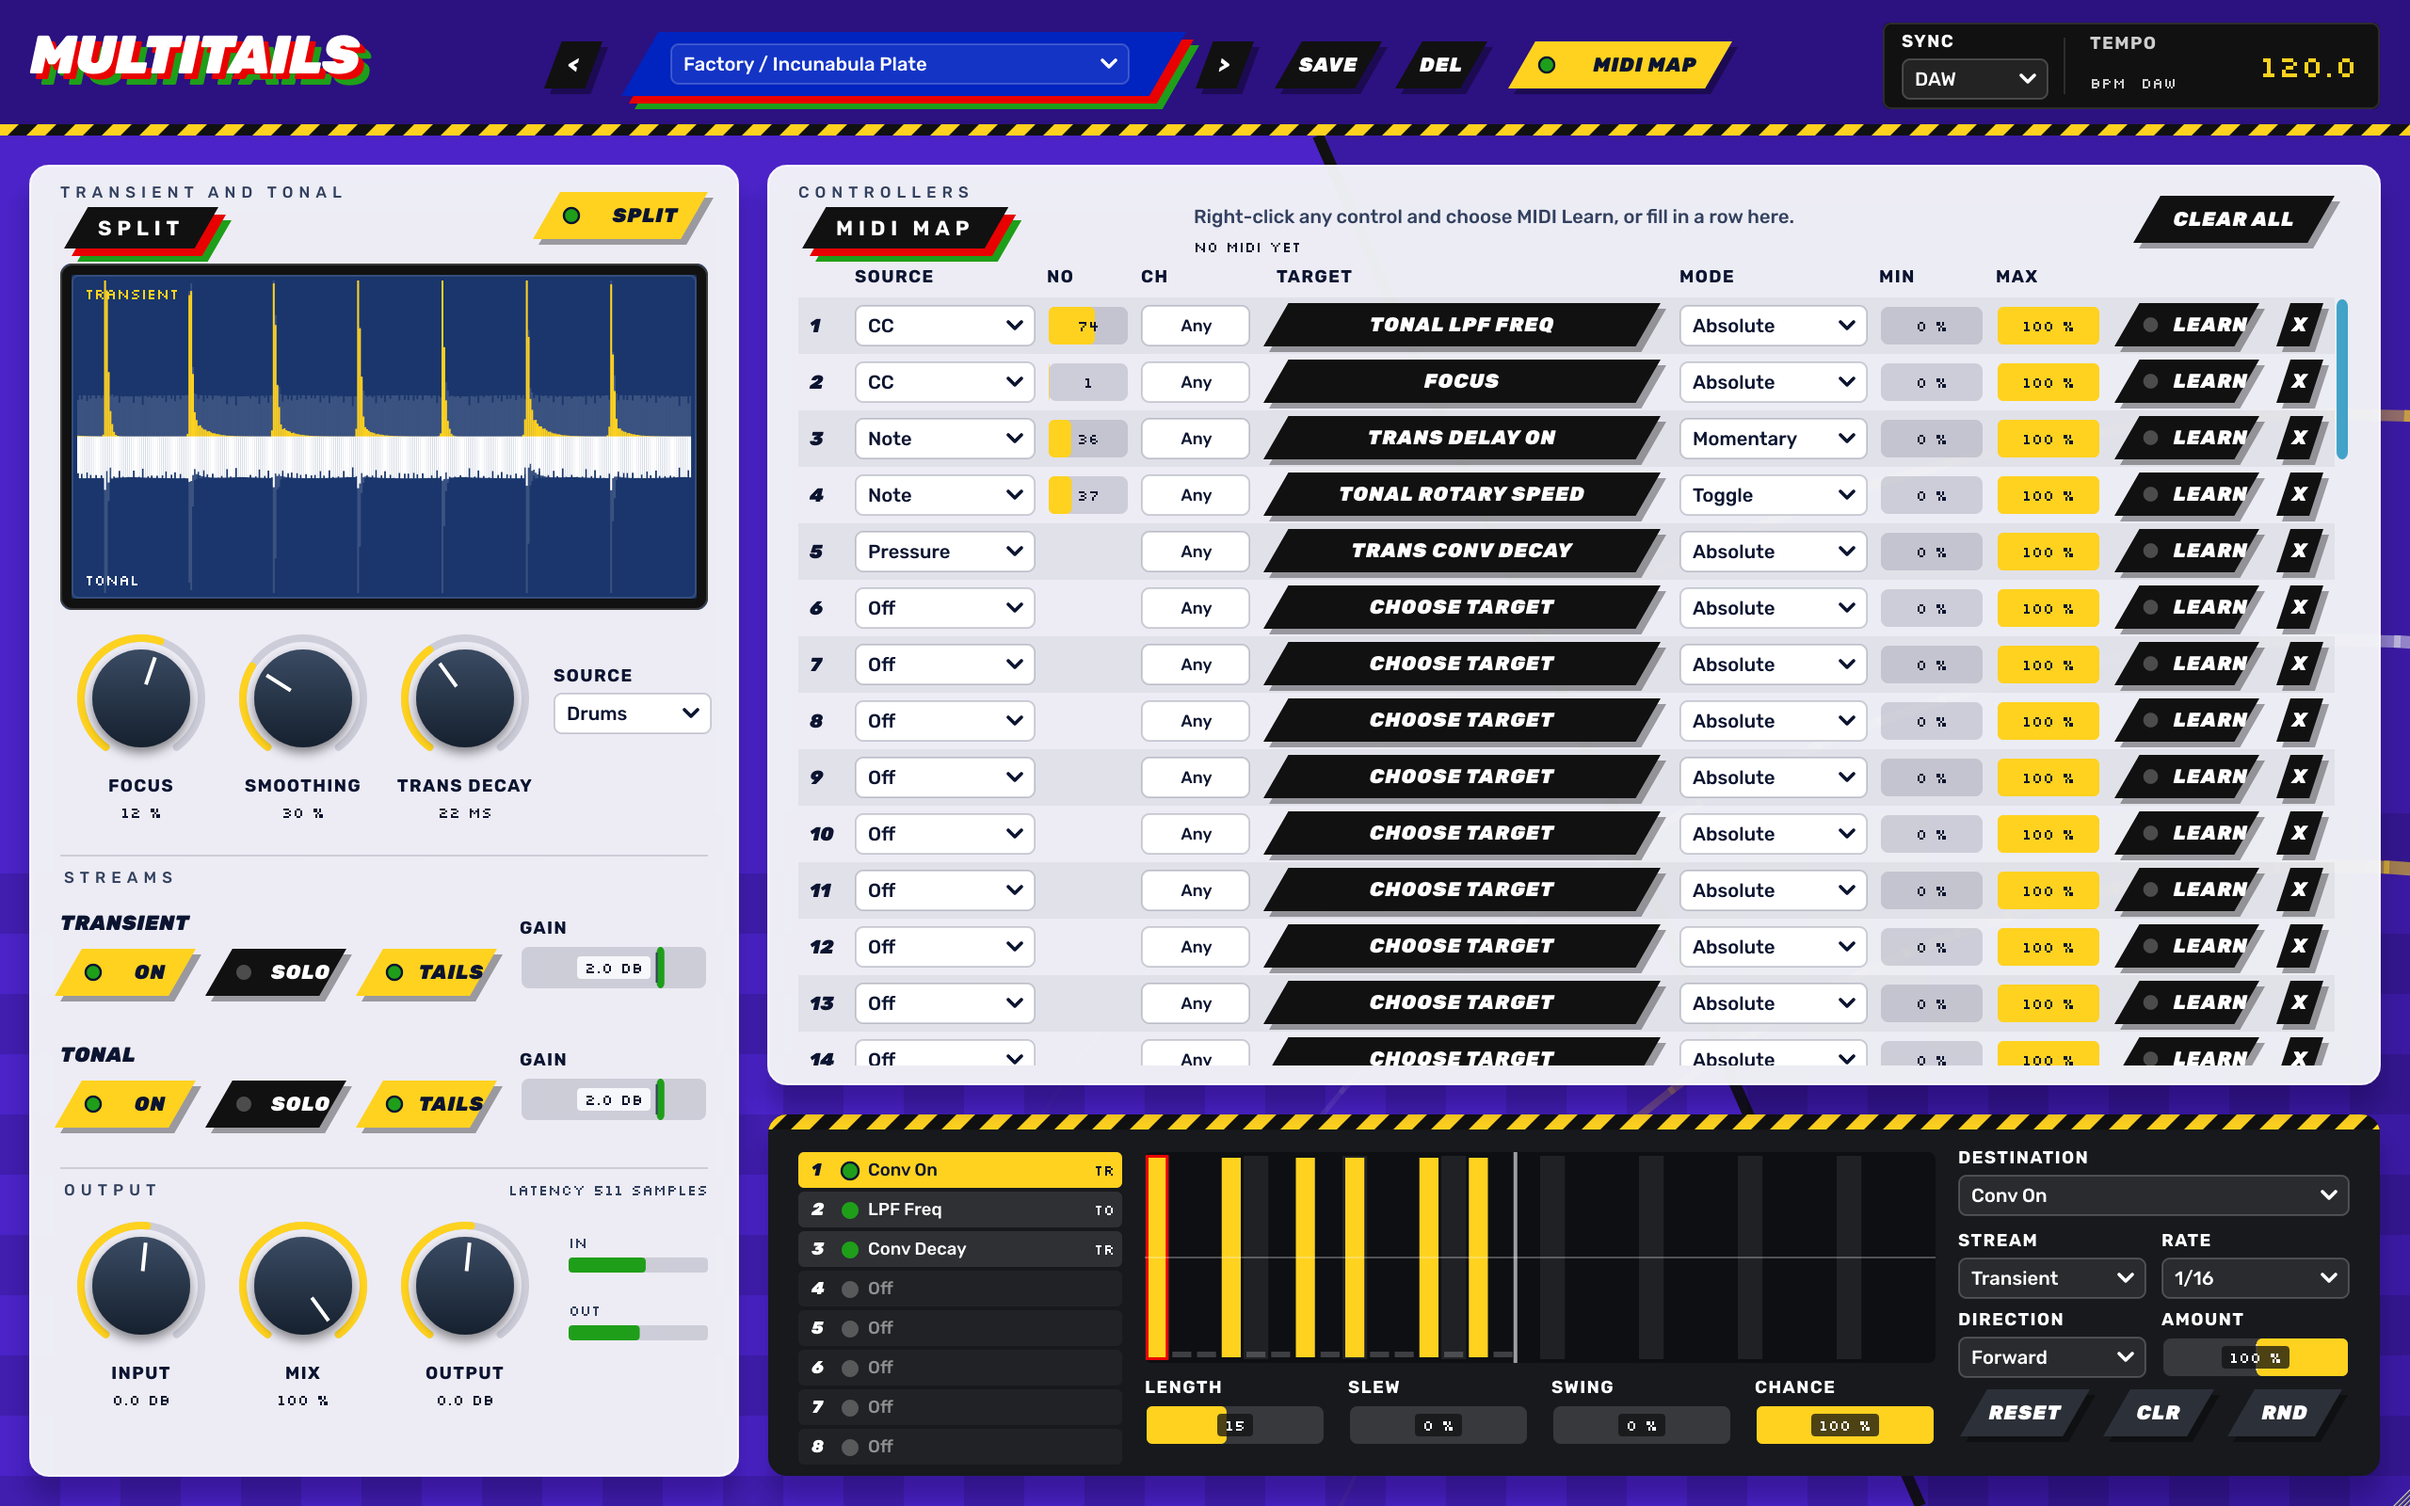
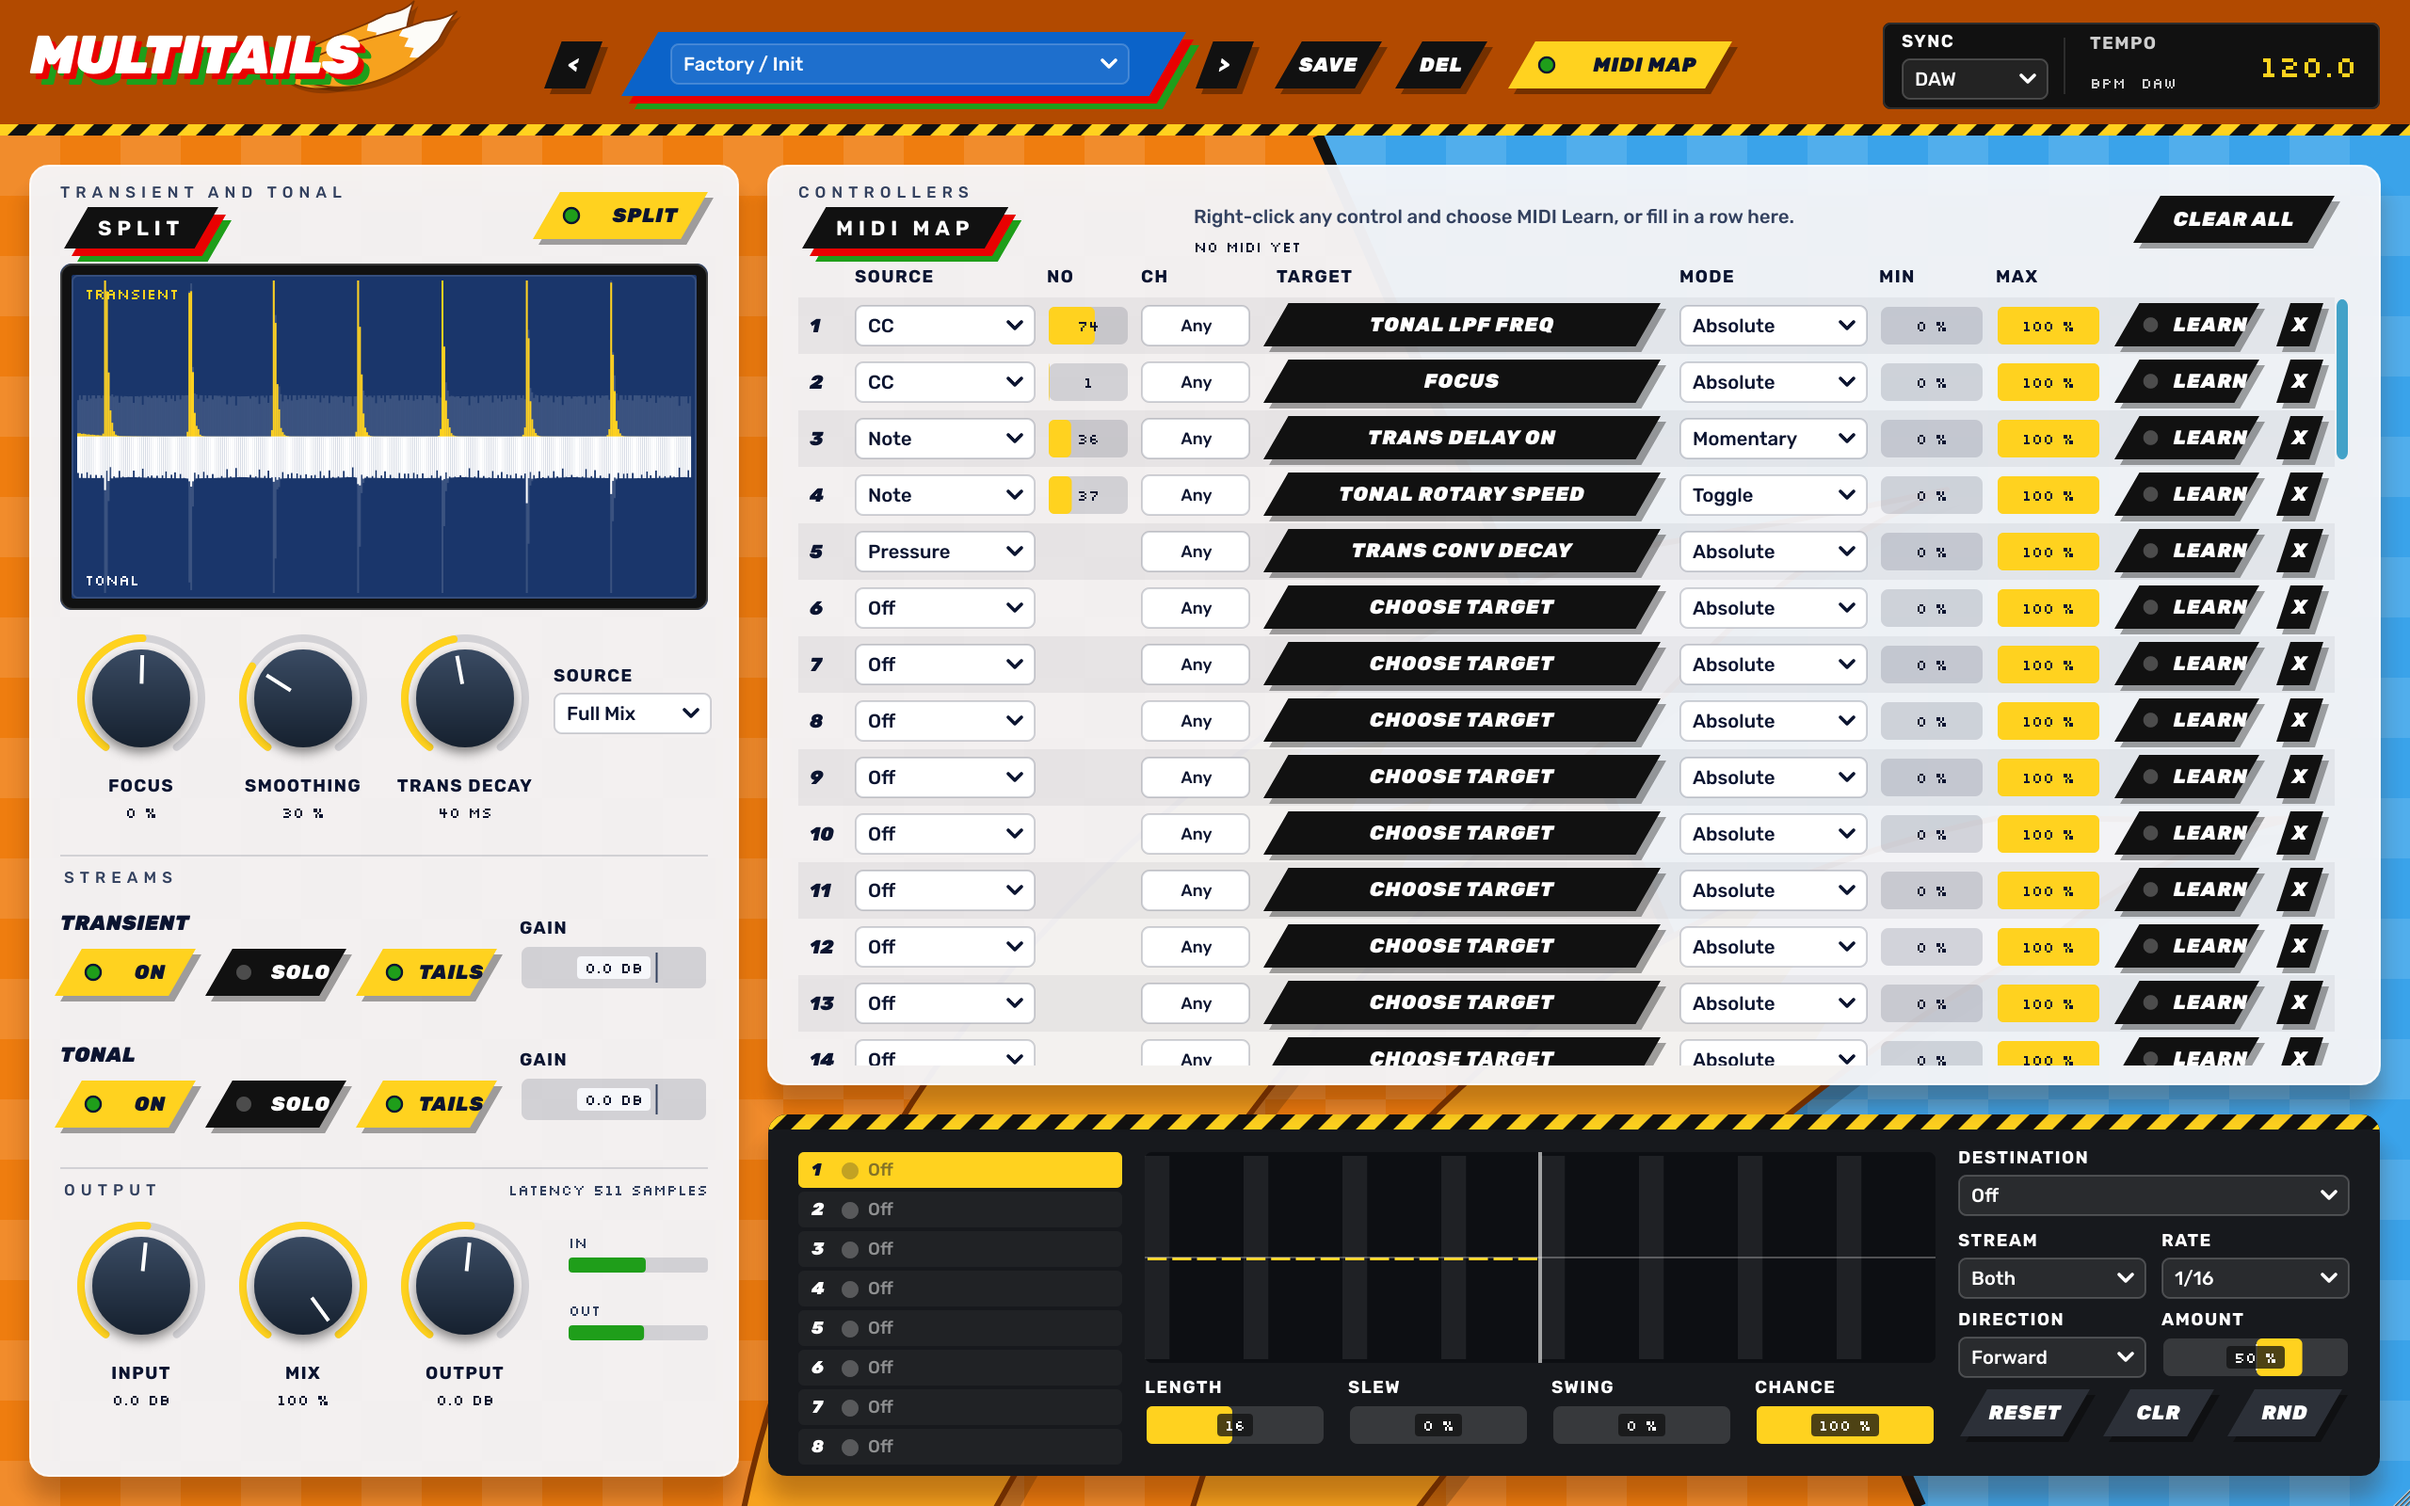
Interfaccia: redesign arancione e azzurro con due code
Claude-Session: https://claude.ai/code/session_01SwQZcES1ck7GBRpW2F6VKn

Changed region(s): [[0.0, 0.0, 1.0, 1.0], [0.8125, 0.8438, 0.8438, 0.875], [0.8125, 0.7812, 0.8438, 0.8125]]

diff --git a/Source/TailsUI.h b/Source/TailsUI.h
@@ -1,6 +1,7 @@
 #pragma once
 // MULTITAILS UI parts. Same design language as SONIC GRAIN and DR. SEGG-UENCER (glass panels, slanted black plates, dark
-// knobs with a yellow value arc, pixel-font readouts). The ground is violet, the third colour of the family.
+// knobs with a yellow value arc, pixel-font readouts). The ground is fox orange with a sky-blue slab and two white-tipped
+// tails behind the panels: the third colour of the family.
 #include <juce_gui_basics/juce_gui_basics.h>
 #include <juce_audio_formats/juce_audio_formats.h>
 #include <map>
@@ -12,13 +13,16 @@ namespace tails
 {
 namespace c
 {
-    // only the ground layer differs from the two sibling plugins, every other name keeps its value
-    const juce::Colour ground    { 0xff4b23c8 };   // violet, white on it 7.7:1
-    const juce::Colour groundAlt { 0xff2c1180 };   // header strip
-    const juce::Colour slab      { 0xff3b1aa3 };   // diagonal band behind the right side
+    // only the ground layer, its shadows and the preset tag differ from the two sibling plugins
+    const juce::Colour ground    { 0xffef7d0f };   // fox orange
+    const juce::Colour groundAlt { 0xffb24a00 };   // header strip, white on it 5.3:1
+    const juce::Colour slab      { 0xff3aa3ea };   // sky-blue diagonal band behind the right side
+    const juce::Colour fur       { 0xfff7a21e };   // tail body, a shade lighter than the ground
+    const juce::Colour furTip    { 0xfffdfcf8 };   // white tail tip
+    const juce::Colour furLine   { 0xff7a3300 };   // tail outline
     const juce::Colour modGround { 0xff17191d };   // track deck
     const juce::Colour glass     { 0xf5f6f7fa };   // rgba(246, 247, 250, 0.96): almost opaque, no cast from the ground
-    const juce::Colour panelShadow { 0x52120040 };
+    const juce::Colour panelShadow { 0x524a1c00 };
     const juce::Colour glassEdge { 0xe6ffffff };
     const juce::Colour ink       { 0xff0b1430 };
     const juce::Colour inkSoft   { 0xff33415f };
@@ -28,16 +32,14 @@ namespace c
     const juce::Colour onAccent  { 0xff0b1430 };
     const juce::Colour go        { 0xff1f9e1a };
     const juce::Colour signal    { 0xffe90101 };
-    const juce::Colour tag       { 0xff0123c0 };
-    const juce::Colour orbitA    { 0xffffd21f };   // yellow tail
-    const juce::Colour orbitB    { 0xffe8ecf1 };   // chrome tail
-    const juce::Colour knob      { 0xff16212f };
+    const juce::Colour tag       { 0xff0b63c9 };   // eye blue, white on it 5.6:1
+        const juce::Colour knob      { 0xff16212f };
     const juce::Colour knobHi    { 0xff3a4b63 };
     const juce::Colour track     { 0x240b1430 };   // ink at 14 %
     const juce::Colour trackDark { 0x24ffffff };   // white at 14 %, for controls on plates and the deck
     const juce::Colour display   { 0xeb082660 };   // rgba(8, 38, 96, 0.92)
     const juce::Colour wave      { 0xffffffff };
-    const juce::Colour checker   { 0x21000000 };   // black 13 % on the ground
+    const juce::Colour checker   { 0x1fffffff };   // white 12 % on the ground and the slab
     const juce::Colour grid      { 0x2effffff };
 }
 
@@ -100,6 +102,58 @@ inline void hazard (juce::Graphics& g, juce::Rectangle<float> r, float band = 10
         p.addQuadrilateral (x, r.getBottom(), x + band, r.getBottom(), x + band + h, r.getY(), x + h, r.getY());
         g.fillPath (p);
     }
+}
+
+/** One fox tail along an arc around (cx, cy): thin at the root, full in the middle, a white tip with a jagged edge.
+    a0 is the root angle and a1 the tip angle (radians, JUCE convention: 0 at 12 o'clock, clockwise). */
+inline void foxTail (juce::Graphics& g, float cx, float cy, float rad, float a0, float a1, float maxW)
+{
+    const float k = juce::jlimit (0.3f, 1.0f, maxW / 130.0f);   // shadow and outline follow the size
+    auto at = [&] (float t, float off)
+    {
+        const float a = a0 + (a1 - a0) * t, r = rad + off;
+        return juce::Point<float> (cx + r * std::sin (a), cy - r * std::cos (a));
+    };
+    auto width = [&] (float t)
+    {
+        const float b = std::sin (juce::MathConstants<float>::pi * std::pow (t, 0.75f));
+        return maxW * (0.22f + 0.78f * b) * (t > 0.82f ? juce::jmax (0.0f, (1.0f - t) / 0.18f) : 1.0f);
+    };
+    auto side = [&] (float from, float to, int n, juce::Path& p, bool outer, bool start)
+    {
+        for (int i = 0; i <= n; ++i)
+        {
+            const float t = outer ? from + (to - from) * (float) i / (float) n : to - (to - from) * (float) i / (float) n;
+            const auto pt = at (t, (outer ? 0.5f : -0.5f) * width (t));
+            if (start && i == 0) p.startNewSubPath (pt); else p.lineTo (pt);
+        }
+    };
+    juce::Path body;
+    side (0.0f, 1.0f, 60, body, true, true);
+    side (0.0f, 1.0f, 60, body, false, false);
+    body.closeSubPath();
+
+    // tip: from a zigzag across the tail at t ~ 0.68 to the point
+    const float tz = 0.68f;
+    juce::Path tip;
+    side (tz, 1.0f, 30, tip, true, true);
+    side (tz, 1.0f, 30, tip, false, false);
+    for (int k = 0; k <= 6; ++k)
+    {
+        const float u = (float) k / 6.0f;
+        const float t = tz + ((k % 2) ? -0.045f : 0.0f);
+        tip.lineTo (at (t, (u - 0.5f) * width (t)));
+    }
+    tip.closeSubPath();
+
+    g.setColour (juce::Colour (0x33000000));
+    g.fillPath (body, juce::AffineTransform::translation (8.0f * k, 8.0f * k));
+    g.setColour (c::fur);
+    g.fillPath (body);
+    g.setColour (c::furTip);
+    g.fillPath (tip);
+    g.setColour (c::furLine);
+    g.strokePath (body, juce::PathStrokeType (3.0f * k, juce::PathStrokeType::curved, juce::PathStrokeType::rounded));
 }
 
 /** Glass panel with its two-line title: kicker word, then the section word on a tagged plate. */

diff --git a/Source/TailsEditor.h b/Source/TailsEditor.h
@@ -135,35 +135,27 @@ public:
     {
         using namespace tails;
         const float W = (float) getWidth(), H = (float) getHeight();
+        // ground: fox orange, a sky-blue slab with a plate edge, a light checkerboard over both, two white-tipped tails
         g.fillAll (c::ground);
         juce::Path band;
         band.addQuadrilateral (700, kHeaderH, W, kHeaderH, W, H, 1020, H);
         g.setColour (c::slab);
         g.fillPath (band);
+        g.setColour (c::checker);
+        for (int y = kHeaderH; y < getHeight(); y += 32)
+            for (int x = (((y - kHeaderH) / 32) % 2) * 32; x < getWidth(); x += 64)
+                g.fillRect (x, y, 32, 32);
         g.setColour (c::plate);
         g.drawLine (700, kHeaderH, 1020, H, 6.0f);
-        g.setColour (c::checker);
-        for (int y = 432; y < getHeight(); y += 32)
-            for (int x = ((y / 32) % 2) * 32; x < getWidth(); x += 64)
-                g.fillRect (x, y, 32, 32);
-        // the family's rings, here as tails that thin out
-        for (int k = 0; k < 3; ++k)
-        {
-            const float rad = 820.0f - (float) k * 120.0f;
-            const auto col = k == 1 ? c::orbitB : c::orbitA;
-            for (int s = 0; s < 40; ++s)
-            {
-                const float a0 = -1.3f + (float) s * 0.05f + (float) k * 0.1f, a1 = a0 + 0.055f;
-                juce::Path p;
-                p.addCentredArc (1240.0f, 1040.0f, rad, rad, 0.0f, -a0 - 0.3f, -a1 - 0.3f, true);
-                g.setColour (col.withAlpha (0.85f * (1.0f - (float) s / 40.0f)));
-                g.strokePath (p, juce::PathStrokeType (10.0f * (1.0f - (float) s / 48.0f)));
-            }
-        }
+        foxTail (g, 1300.0f, 1120.0f, 900.0f, -1.42f, -0.30f, 150.0f);
+        foxTail (g, 1300.0f, 1120.0f, 690.0f, -1.30f, -0.12f, 130.0f);
 
         g.setColour (c::groundAlt);
         g.fillRect (0.0f, 0.0f, W, (float) kHeaderH);
         hazard (g, { 0.0f, (float) kHeaderH - 6.0f, W, 6.0f });
+        // the logo's two tails, behind the last letters
+        foxTail (g, 150.0f, -46.0f, 84.0f, 3.14f, 2.16f, 26.0f);
+        foxTail (g, 158.0f, -90.0f, 128.0f, 3.14f, 2.42f, 23.0f);
         g.setFont (black (34.0f, -0.01f));
         const juce::String name ("MULTITAILS");
         g.setColour (c::go);      g.drawText (name, 22, 15, 340, 40, juce::Justification::centredLeft);

diff --git a/README.md b/README.md
@@ -1,6 +1,6 @@
 # MULTITAILS
 
-Multieffetto a **due catene** in formato **VST3 / AU / AAX** (C++ / JUCE 8): separa il segnale in transiente e tonale e lavora su ciascuno con riverbero a convoluzione, tape echo, delay, chorus, rotary e filtri, in qualsiasi ordine. È il terzo della famiglia dopo [SONIC GRAIN](https://github.com/gianlucasofia90/SONICGRAIN) e [DR. SEGG-UENCER](https://github.com/gianlucasofia90/dr.segg-uencer): stessa grafica, stessa toolchain.
+Multieffetto a **due catene** in formato **VST3 / AU / AAX** (C++ / JUCE 8): separa il segnale in transiente e tonale e lavora su ciascuno con riverbero a convoluzione, tape echo, delay, chorus, rotary e filtri, in qualsiasi ordine. È il terzo della famiglia dopo [SONIC GRAIN](https://github.com/gianlucasofia90/SONICGRAIN) e [DR. SEGG-UENCER](https://github.com/gianlucasofia90/dr.segg-uencer): stessa grafica e stessa toolchain, qui su fondo arancione e azzurro con due code.
 
 Il suono di riferimento resta quello di *Incunabula* e *Amber* degli Autechre e di *Selected Ambient Works 85-92* di Aphex Twin: colpi secchi lanciati in code digitali lunghe e granulose, nastro e chorus sulla parte tenuta, mandate che si aprono a tempo invece di un mix fisso. Su quei dischi il riverbero era quasi sempre un Alesis Quadraverb: da lì la famiglia `Digital` delle risposte all'impulso e l'idea della catena di effetti in serie.
 

diff --git a/CLAUDE.md b/CLAUDE.md
@@ -1,6 +1,6 @@
 # MULTITAILS – note per lo sviluppo
 
-- JUCE 8 audio effect with MIDI input (VST3/AU/AAX, optional VST2). Third of the family after SONIC GRAIN and DR. SEGG-UENCER: same look and toolchain, violet ground.
+- JUCE 8 audio effect with MIDI input (VST3/AU/AAX, optional VST2). Third of the family after SONIC GRAIN and DR. SEGG-UENCER: same look and toolchain, fox-orange ground with a sky-blue slab and two white-tipped tails (`foxTail` in `TailsUI.h`).
 - `Source/TailsCore.h`, `TailsConv.h`, `TailsFx.h`, `TailsSplit.h`, `TailsEngine.h` hold no JUCE and must stay real-time safe: no allocation, no locks after `prepare()`. Control runs on a grid of `kTick` (32) samples counted from `prepare()` and the sequencer reads musical time, so output does not depend on buffer size (tested).
 - Build + tests: `cmake -B build -G Ninja -DCMAKE_BUILD_TYPE=Release -DMULTITAILS_BUILD_TESTS=ON -DMULTITAILS_COPY_AFTER_BUILD=OFF && cmake --build build --target MultitailsTests -j2`, then run `build/Tests/MultitailsTests_artefacts/Release/MultitailsTests`. `--snap file.png page stream fx preset scale` renders the editor (page 0 effects, 1 MIDI map); look at it after any UI change. `--render file.wav preset seconds` plays a test phrase through a preset.
 - JUCE: `-DJUCE_DIR=<path>` for a local copy; otherwise FetchContent downloads tag 8.0.10.

diff --git a/CHANGELOG.md b/CHANGELOG.md
@@ -1,5 +1,8 @@
 # Changelog
 
+## [Non rilasciato]
+- Nuova grafica: fondo arancione volpe con fascia azzurra e scacchiera chiara, due code dalla punta bianca dietro i pannelli e accanto al logo, tag del preset blu. Controlli, misure e disposizione invariati.
+
 ## [0.1.0] - 2026-11-03
 Prima versione.
 - Split transiente/tonale in tempo e frequenza, con Focus, Smoothing, Trans Decay e Source. La somma dei due flussi è esattamente l'ingresso.
